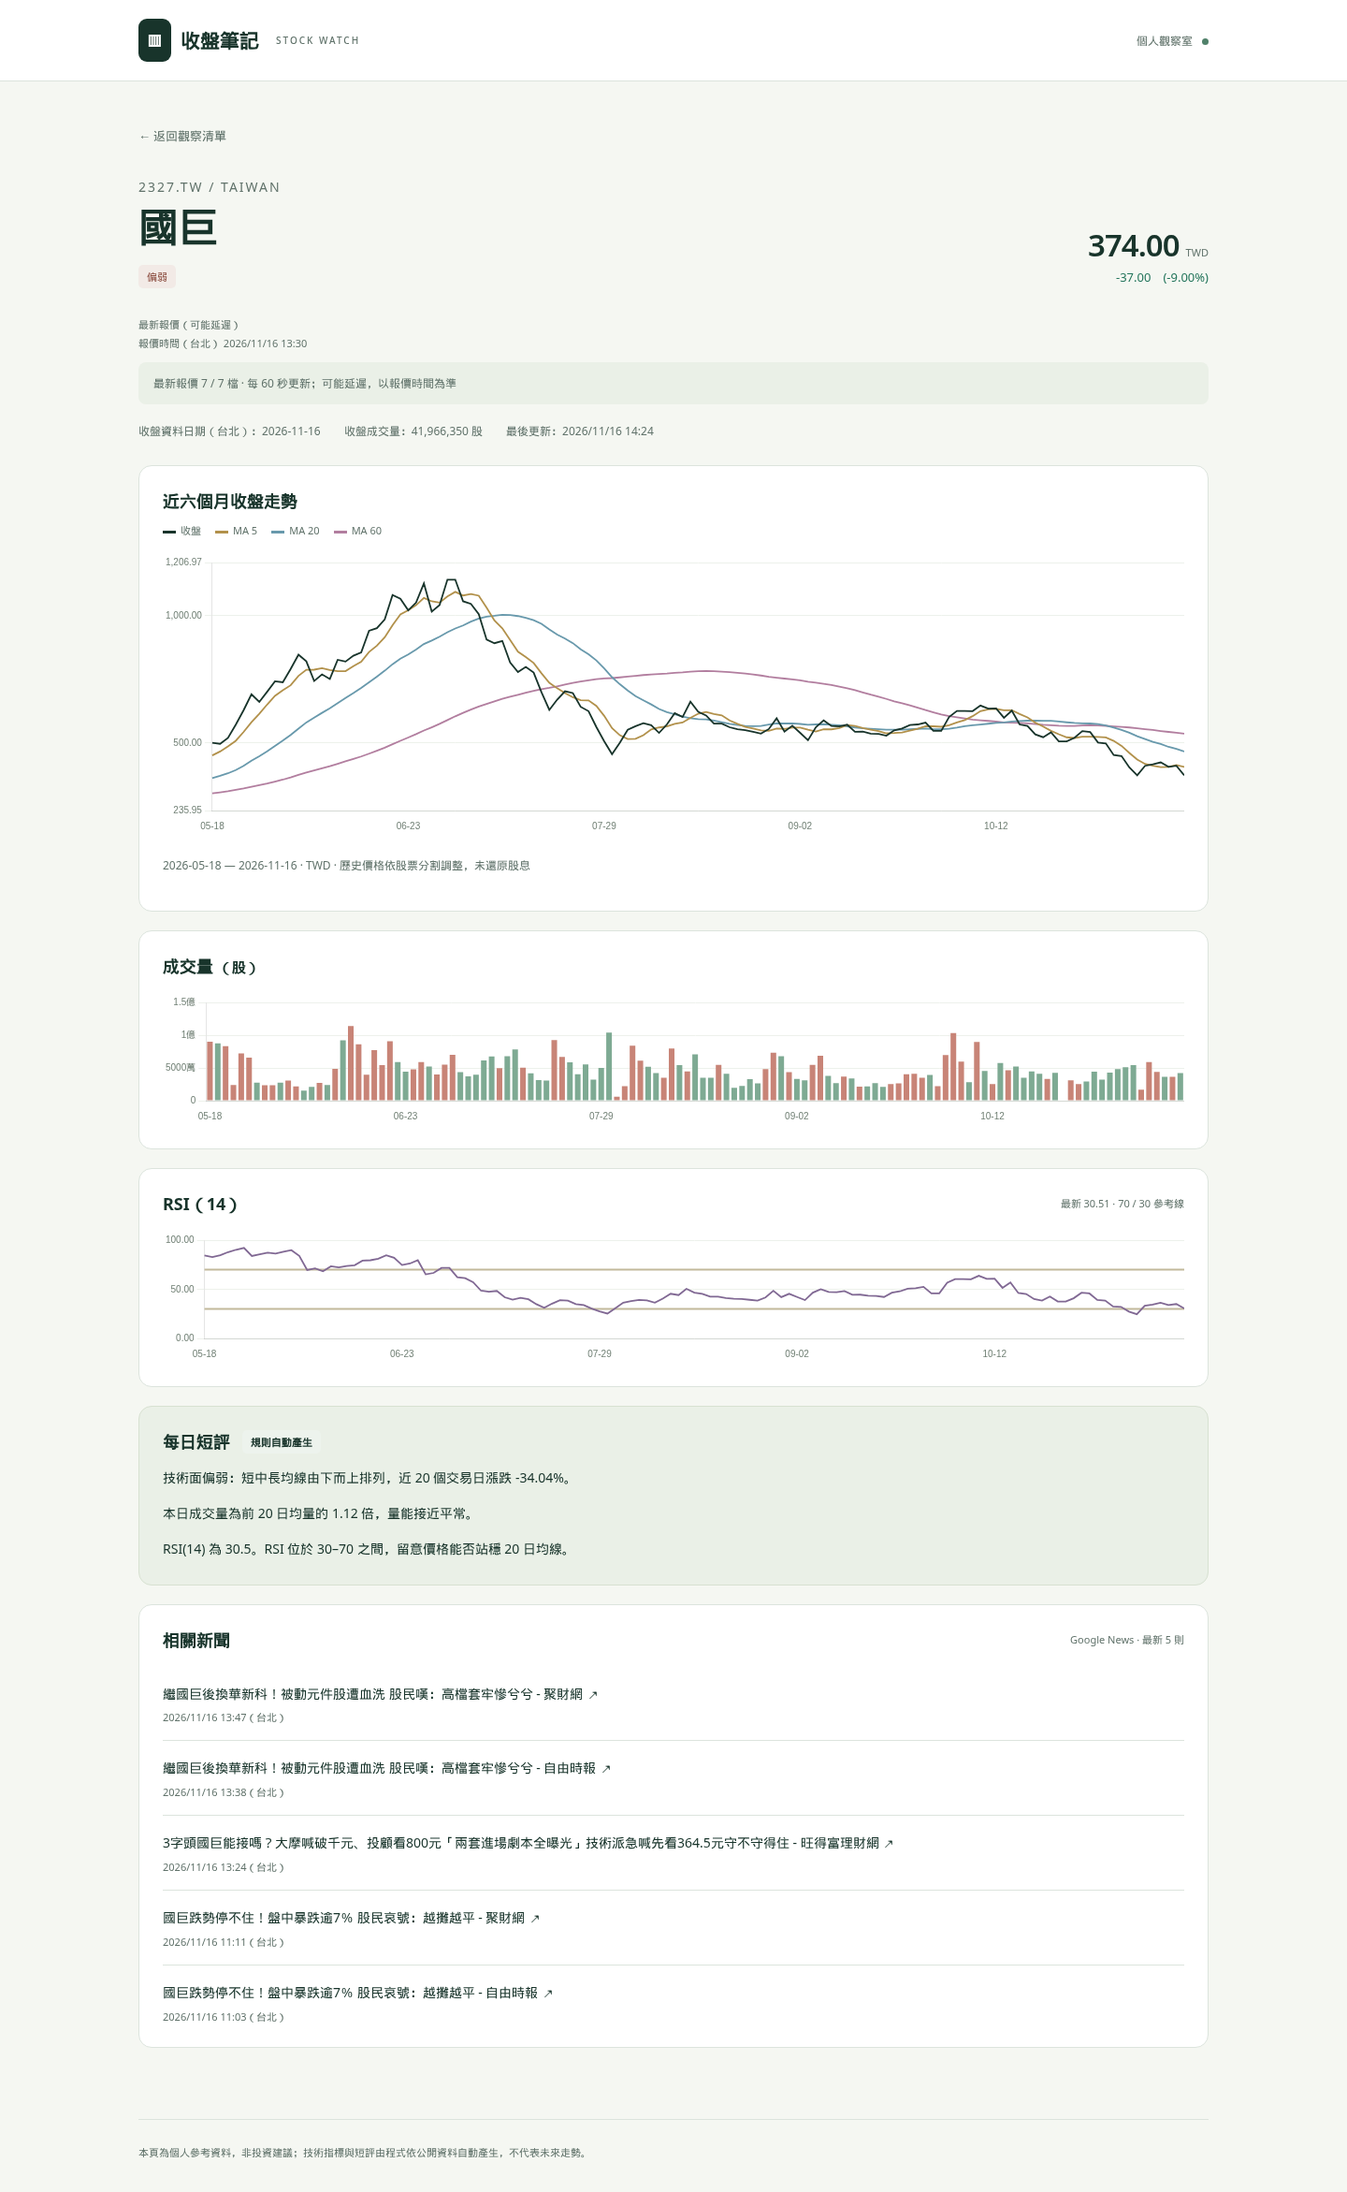
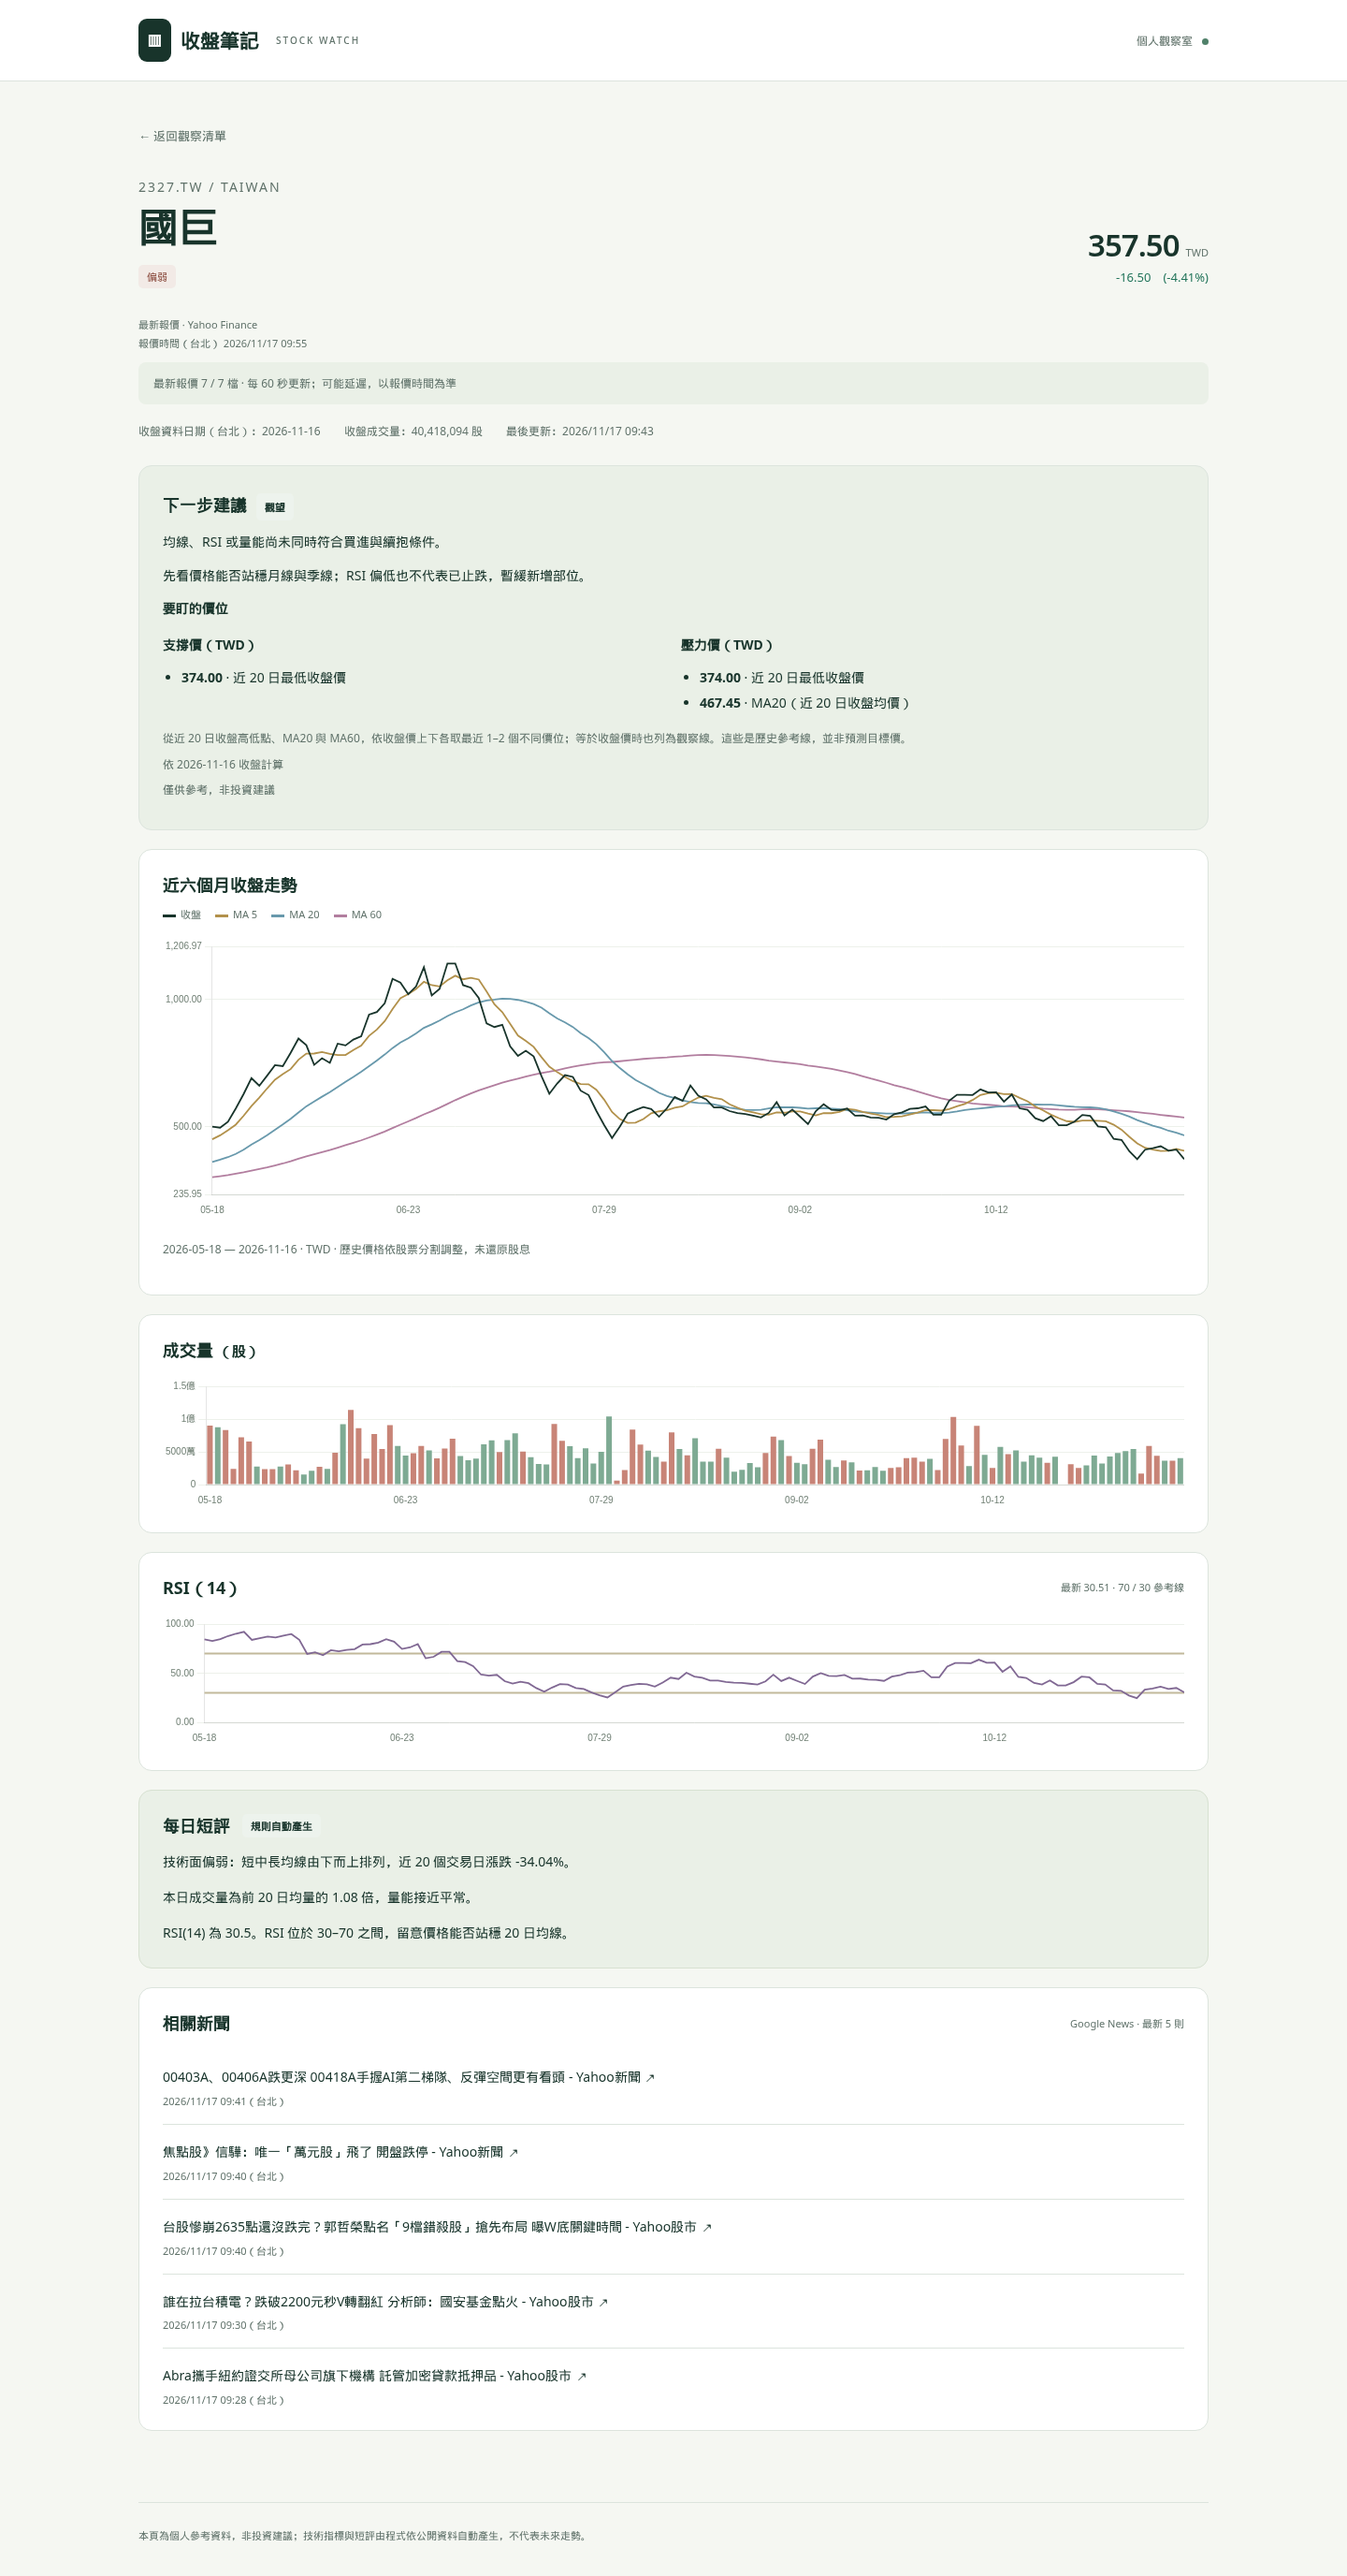
test: verify v1.3 production quotes and record delivery

diff --git a/scripts/check_browser.py b/scripts/check_browser.py
@@ -5,21 +5,21 @@ with sync_playwright() as p:
     page=browser.new_page(viewport={'width':390,'height':844},device_scale_factor=1)
     errors=[]
     page.on('pageerror',lambda e:errors.append(str(e)))
-    page.goto(os.environ.get('SITE_URL','http://localhost:8765'))
+    page.goto(os.environ.get('SITE_URL','http://localhost:8765').rstrip('/'))
     page.wait_for_selector('.stock-card')
     assert page.locator('.stock-card').count()==7
     assert page.locator('.recommendation-compact').count()==7
     assert page.locator('.recommendation-disclaimer').count()==7
     assert page.evaluate('document.documentElement.scrollWidth <= innerWidth')
     page.screenshot(path='screenshots/v1.2-home-mobile.png',full_page=True)
-    page.locator('.stock-card').first.click()
+    page.locator('.stock-card .card-link').first.click()
     page.wait_for_selector('#price-chart')
     assert page.locator('canvas').count()==3
     assert page.locator('.news li').count()==5
     assert page.evaluate('document.documentElement.scrollWidth <= innerWidth')
     page.screenshot(path='screenshots/v1.2-detail-mobile.png',full_page=True)
     for symbol in ['2327.TW','2308.TW','2330.TW','2301.TW','3711.TW','NVDA','TSLA']:
-        page.goto(os.environ.get('SITE_URL','http://localhost:8765')+'/#'+symbol)
+        page.goto(os.environ.get('SITE_URL','http://localhost:8765').rstrip('/')+'/#'+symbol)
         page.wait_for_selector('#price-chart')
         assert page.locator('.recommendation-full').count()==1
         assert page.locator('.watch-levels li').count()>=2
@@ -29,7 +29,7 @@ with sync_playwright() as p:
         assert page.evaluate("Chart.getChart(document.getElementById('price-chart')).data.datasets.length")==4
         assert page.evaluate("Chart.getChart(document.getElementById('rsi-chart')).data.datasets.length")==3
     page.set_viewport_size({'width':1440,'height':1000})
-    page.goto(os.environ.get('SITE_URL','http://localhost:8765'))
+    page.goto(os.environ.get('SITE_URL','http://localhost:8765').rstrip('/'))
     page.wait_for_selector('.stock-card')
     page.screenshot(path='screenshots/v1.2-home-desktop.png',full_page=True)
     assert not errors,errors

diff --git a/SUMMARY_v1.3.md b/SUMMARY_v1.3.md
@@ -1,0 +1,65 @@
+# v1.3 交件紀錄
+
+## 改了什麼
+
+- Worker 台股五檔改為一次批次查詢證交所 MIS；美股維持 Yahoo。TWSE 批次失敗、2.5 秒逾時、缺檔或單檔欄位無效時，只對受影響台股採原有 Yahoo（7 秒逾時）。
+- 成交價採 z、昨收採 y、時間採 tlong；量 v 由張乘 1000 換算為股，README 已明列。
+- z 為「-」時，盤中採有效最佳買賣中間價並標示；無雙邊買賣價則採 trade.z 最後成交。收盤後優先 z，再取最後成交，絕不將中間價當收盤價；都不可用便退回 Yahoo。
+- 每檔回傳 source（TWSE / Yahoo Finance）及 priceType；卡片、詳細頁標示來源，頁首改為台股證交所優先／失敗 Yahoo、美股 Yahoo 可能延遲。
+- 保留 Origin、方法、路徑、股票白名單限制與錯誤處理；快取改 20 秒並更換快取鍵，前端維持 60 秒刷新，失敗仍退回靜態收盤資料。
+- 新增 TWSE 解析、單檔／批次失敗與逾時退回測試，Actions 加入 Node 22 與 Worker 測試。未調整股票與版面風格。
+- 修正既有瀏覽器測試的 SITE_URL 尾斜線造成雙斜線網址問題，點擊明確的股票連結，避免將測試腳本錯誤誤認為網站錯誤。
+
+## 正式證交所實測
+
+實測方式：向正式 Worker /quotes 送出允許的 Origin，非 mock；時間皆為台北。
+
+實測回應 fetchedAt：**2026-11-17 10:08:26.812**。五檔台股均為 TWSE，時間差皆小於兩分鐘。當次 z 缺值，價格皆為畫面已標示的買賣中間價，非冒稱成交價。
+
+| 股票 | source | 報價時間（台北） | 價格 | 距回應時間 |
+| --- | --- | --- | ---: | ---: |
+| 2327.TW | TWSE | 2026-11-17 10:08:00 | 357.25 | 26.812 秒 |
+| 2308.TW | TWSE | 2026-11-17 10:08:05 | 1052.5 | 21.812 秒 |
+| 2330.TW | TWSE | 2026-11-17 10:08:00 | 2207.5 | 26.812 秒 |
+| 2301.TW | TWSE | 2026-11-17 10:08:00 | 206.75 | 26.812 秒 |
+| 3711.TW | TWSE | 2026-11-17 10:08:07 | 519.5 | 19.812 秒 |
+| NVDA | Yahoo Finance | 2026-11-17 05:00:01 | 156.14 | 18505.812 秒 |
+| TSLA | Yahoo Finance | 2026-11-17 05:00:00 | 379.74 | 18506.812 秒 |
+
+Worker 已用本機既有登入部署：版本 `f68bafea-03a7-4183-b3b0-4fdd6fe8df54`。
+正式網址：https://stock-watch-quotes.jumpbotofficejumpbotoffice.workers.dev/quotes
+
+網頁已推送 main 並完成 GitHub Pages 部署。實作 commit `ff80fbc6b305174e8789c84e78df818a00ca2588`；[Actions 44000866330](https://github.com/edjumptw/stock-watch/actions/runs/44000866330) update 與 deploy 皆成功（台北 10:09:52 完成）。正式 app.js 與本機逐位元比對相同。正式網頁報價驗收通過七檔、390px／桌面、七檔圖表縱軸與錯誤／部分回應退回；截圖存 screenshots/。
+
+本次為盤中驗收，未宣稱已於當日收盤後實測。13:30 報價的解析與缺 z 時最後成交邏輯已用測試資料驗證；當日實際收盤值需 Kinki 於收盤後確認。
+
+## 收盤日期檢查結論
+
+Kinki 的 `db682e4` 五次排程 UTC 06:30、08:30、12:00、22:00、00:30，換算台北為 14:30、16:30、20:00、06:00、08:30，正確，包含冬令美股收盤後的 08:30 備援。手動流程 43997662315 已成功；現存台股日線日期為 2026-11-16。README 原僅列兩次已同步修正。
+
+漏洞／限制：GitHub 排程仍可能延誤或漏跑，增加次數只降低機率，無法保證準時；現有 concurrency 不取消正在執行的更新，排程與手動都會重新抓全部七檔，失敗三次後不發布部分結果，可繼續沿用。這次無需再修改排程時間。
+
+實際重抓 Yahoo 五日日線確認 NVDA、TSLA 的 2026-11-16 Close 仍為 NaN，11-13 分別為 162.850006、390.220001。正式即時 Yahoo 則可取得 11-16 的 156.14／379.74，但即時欄位與完整歷史日線不是同一資料契約；直接塞 regularMarketPrice 可能錯配日期、成交量及技術指標，因此保留 dropna，不製造虛假的完成日線。五次排程會持續重試；Yahoo 補齊後自然進入歷史資料，不能保證下一次就修復。未更動 scripts/update_data.py 與正式歷史 JSON。
+
+## 測試結果
+
+- `node tests/test_worker.mjs`：通過來源／方法／路徑限制、白名單、Yahoo 解析與快取、全部上游失敗、TWSE 成交／中間價／最後成交／收盤、張轉股、無效欄位、部分批次與逾時退回。
+- `.venv/bin/python -m unittest discover -s tests -v`：5 個測試全通過。
+- `node --check app.js`：通過。
+- `LOCAL_SITE=1 .venv/bin/python scripts/check_quotes.py`：通過（本機前端＋正式 Worker）。
+- `.venv/bin/python scripts/check_quotes.py`：正式網頁通過，包含手機／桌面、七檔、回退與縱軸。
+- `scripts/check_browser.py`：初次未啟動 localhost 因連線拒絕失敗；正式網址再跑發現測試腳本尾斜線問題，已修正並重新驗證通過：390px 首頁與全部七檔詳細頁、圖表與新聞，無溢出或 JavaScript 錯誤。
+
+## commit 與紀錄
+
+實作：`ff80fbc`。後續瀏覽器測試修正、截圖與本摘要納入交件 commit（以 `git log -1 -- SUMMARY_v1.3.md` 查閱完整編號，避免自我引用 commit 雜湊）。所有變更已推送 main；未提交金鑰、權杖或本機登入資料，未變動既存未追蹤 tasks/。
+
+## 卡點
+
+無部署或登入卡點。Yahoo 美股 11-16 歷史日線 NaN 是外部供應端限制，本次如實保留舊收盤日期；盤中報價已可顯示最新 Yahoo。收盤後實測未在本次盤中時段執行，交由 Kinki 接續確認。
+
+## 建議（未實作）
+
+Kinki 今日 13:30 後確認五檔正式收盤價／時間；下一次排程後檢查美股日期是否補齊。若 Yahoo 長期 NaN，再另案評估歷史日線備援與日期過期提示。維持排程失敗時人工檢查 Actions；本次不新增通知或來源。
+
+【交接】通知誰：Kinki／紀錄存哪：SUMMARY_v1.3.md 與 commit／誰經手：Codex／誰接手、下一步：Kinki 驗收後回報執董
